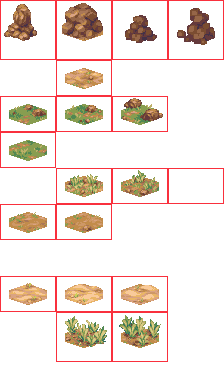
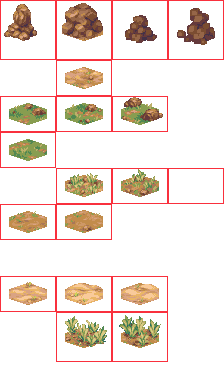
Adjusted the height of most land tiles to be 16 pixels tall.

diff --git a/src/game/core/engine/Asset_Manager.ts b/src/game/core/engine/Asset_Manager.ts
@@ -124,7 +124,7 @@ export const New_Asset_Manager = (): Asset_Manager_Data => {
 	return {
 		consts: {
 			tile_width: 38, //38
-			tile_height: 15, //21
+			tile_height: 16, //21
 			row_length: 14,
 			col_height: 20,
 		},
